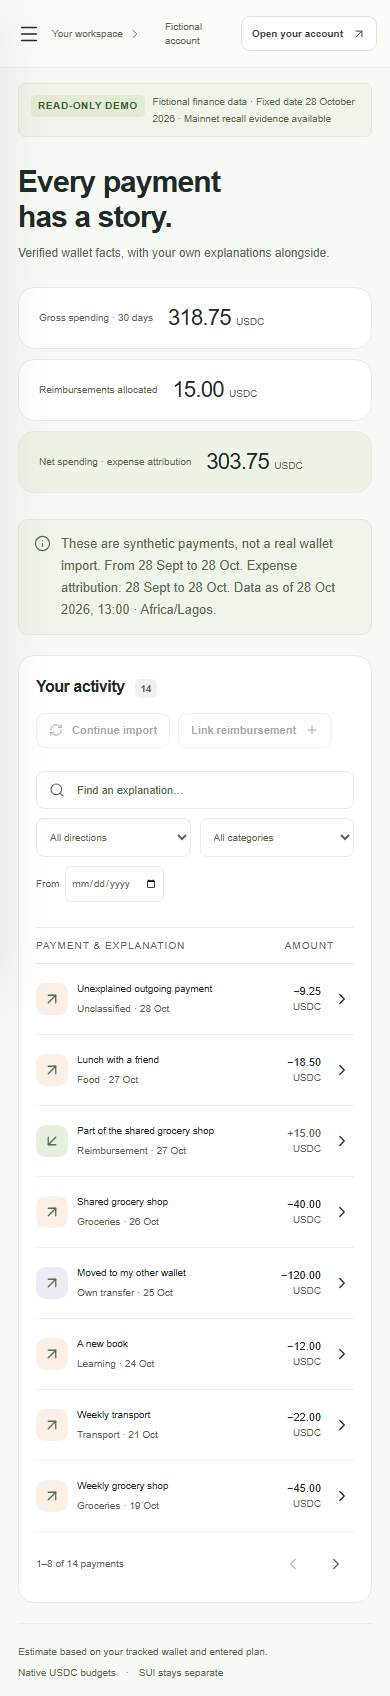
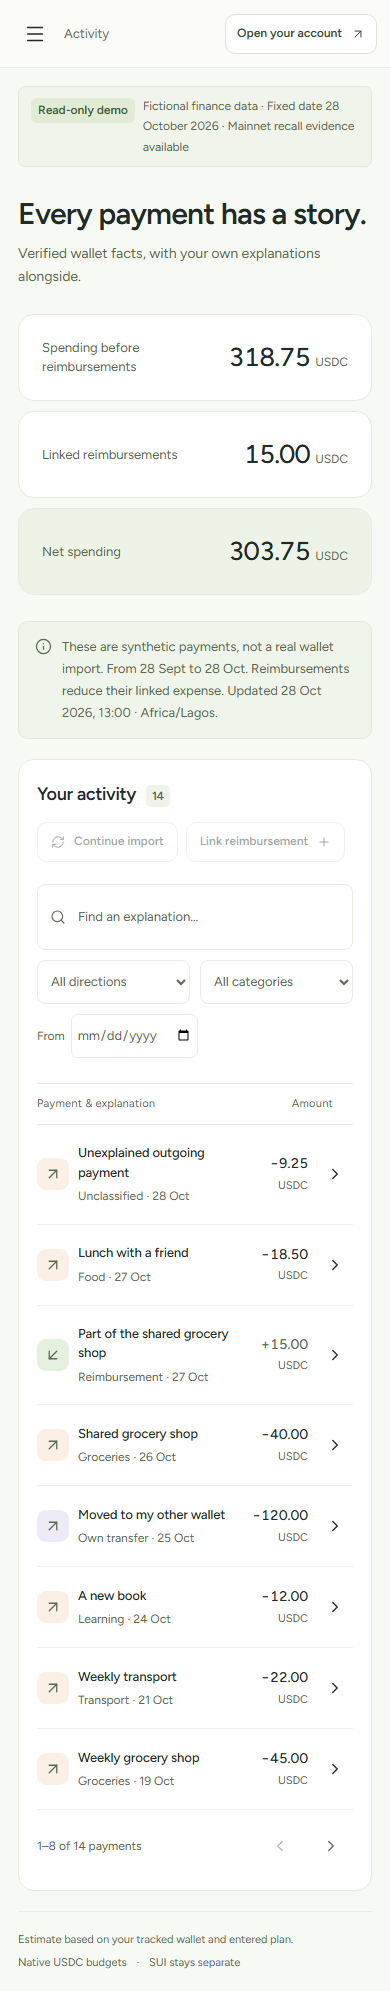
Record approved deployed presentation checks and current draft video [skip ci]

diff --git a/docs/OPEN_ITEMS.md b/docs/OPEN_ITEMS.md
@@ -5,13 +5,13 @@ Reviewed 29 October 2026. Software implementation and public review deployment a
 | ID | Owner | Impact | Exact next action | Evidence/status |
 | --- | --- | --- | --- | --- |
 | O01 | Implementation | Public native-USDC history | None required for recorded scope. | Closed: public reference incoming/outgoing, exact type/success/deltas, bounded resume/repeat verified through Tatum. |
-| O02 | Implementation | Walrus lifecycle/retention | Do not repeat or add seed writes. | Closed: all24 approved synthetic records stored/recalled; every expiry covers30November2026. |
+| O02 | Implementation | Walrus lifecycle/retention | Do not repeat or add seed writes. | Closed: all 24 approved synthetic records stored/recalled; every expiry covers30 November 2026. |
 | O03 | Implementation | Deployed runtime/storage | Recheck after future code/provider changes. | Closed: source bdace24, production probe 2026-10-29T19:47:18.767Z; balances, direct public transactions, two history pages/both directions, signed recall and PostgreSQL write/read passed. |
 | O04 | Tatum/provider + implementation | F08/F09, personal financial release | Obtain an official atomic balance checkpoint/index watermark or supported equivalent proving the balance includes a payment; implement and verify that contract. Concrete question: TATUM_CONTRACT_QUESTION.md. No transfers needed. | Critical/open. Current latest-checkpoint header is appended separately. Balance.checkpoint=null; reservations remain pending. |
 | O05 | Builder + implementation | Genuine wallet and G13 learning | After O04/O09 clear, complete PERSONAL_ACCEPTANCE.md with genuine installed-wallet sessions and actual recurring confirmation/correction. Review exact new payloads separately before any Mainnet write. REAL_PREFERENCE_GUIDE.md guides actual reserve preference separately. | Open. Supplied wallet already recorded; no need to send it again. Generated test signatures and synthetic replay do not satisfy genuine sessions. Unconfirmed10000 remains unassigned. |
-| O06 | Builder | Eligibility, identifiers, account quota | Confirm eligibility/one entry, enter real contact/public account IDs privately in the prepared form; verify Tatum's actual free quota/charges in its dashboard without upgrading or enabling billing. | Open: form20visible/15required fields inspected read-only. Sponsored MemWal confirmed, NeonFree/VercelHobby configured. No contacts or secrets requested in chat. |
-| O07 | Builder + implementation | Article/video/submission | Complete real learning, finalize BLOG.md and local video, publish article/video, verify signed-out URLs, review form agreements and submit once; retain receipt before10November2026 18:00Africa/Lagos. | Open: app/repo public, article/social drafts, local captioned2–3minute video only. No external publication or form submission made. |
-| O08 | Implementation | Automated acceptance | None required for this exact source absent new failures/changes. | Closed at recorded scope: all9 CI checks,38unit,18realDB,7publicbrowser,13authenticatedbrowser; fingerprint matches. Tests do not clear O04/O05/O09. |
+| O06 | Builder | Eligibility, identifiers, account quota | Confirm eligibility/one entry, enter real contact/public account IDs privately in the prepared form; verify Tatum's actual free quota/charges in its dashboard without upgrading or enabling billing. | Open: form20 visible/15 required fields inspected read-only. Sponsored MemWal confirmed, NeonFree/VercelHobby configured. No contacts or secrets requested in chat. |
+| O07 | Builder + implementation | Article/video/submission | Complete real learning, finalize BLOG.md and local video, publish article/video, verify signed-out URLs, review form agreements and submit once; retain receipt before10 November 2026, 18:00 Africa/Lagos. | Open: app/repo public, article/social drafts, local captioned2–3minute video only. No external publication or form submission made. |
+| O08 | Implementation | Automated acceptance | None required for this exact source absent new failures/changes. | Closed at recorded scope: all 9 CI checks,38 unit,18 real DB,7 public browser,13 authenticated browser; fingerprint matches. Tests do not clear O04/O05/O09. |
 | O09 | Slush review + builder | Installed-wallet security | Confirm exact hostname that showed warning; ChromePC Slush26.21.6(e2be7f2) already recorded. Use prepared SLUSH_REVIEW_REQUEST.md through official support. Do not bypass the warning, disable protections or use a different hostname to evade it. Recheck official resolution before enabling sign-in. | Critical/open: production sign-in and finance disabled, health/challenge rejection verified. No support request sent; blocklist absence is not safety proof. |
 | O10 | Implementation | Bounded history failure handling | No extra outage simulation required for delivered scope; investigate actual future provider errors using sanitized diagnostics. | Closed at tested scope: actual bounded resume/repeat plus local protobuf/transport throttle, interruption, retention/auth and cursor cases. No induced live outage claim or lifetime coverage extrapolation. |
 

diff --git a/docs/VERIFICATION_REPORT.md b/docs/VERIFICATION_REPORT.md
@@ -21,15 +21,15 @@ Deployment `dpl_9FpwHJVnS3SLFp5qXRdaYqkMygYq` is READY at the canonical public a
 | Pagination/recovery | history-recovery.json: 30 ITEM_LIMIT +19 CHECKPOINT_BOUND, 49 transactions/93 movements, both directions, stable repeated first page; production also streams both pages | Frozen bounds only. Throttle, interruption, pruning and stalled cursor scenarios are local transport/protobuf fixtures, not induced live outages. |
 | Walrus Mainnet | Approved smoke event plus exact approved 24-event synthetic batch, completed jobs, distinct active blobs and matching signed recalls | No extra personal writes or paid renewal authorized. All seed expiries cover 30 November 2026. |
 | Durable storage/auth | db-tests.json and personal-browser.json: migrations1–3, races/caps, immutability, cursor rollback, nonce/CSRF/session isolation/export, persisted new session, dependency failures and demo/account navigation | Real isolated PostgreSQL in CI; SDK test signatures are not genuine installed-wallet acceptance. |
-| UI and accessibility | ux-checks.json: 21 route/width checks at390/768/1440, no overflow/broken images/serious-critical axe findings; drawer is a separate 22nd visual capture | 12 extra CSS reflow checks at720/320, not physical zoom/device testing. Seven browser tests include keyboard drawer/Escape/route/resize and fonts. |
-| Production presentation | The new deployment is READY; its runtime probe passed. Current source local production captures passed and were independently reviewed. Earlier deployed visual-checks.json identifies its older source. | New deployed capture timed out on network-idle; permission review timed out twice before the corrected capture could start. Fresh deployed screenshot evidence is incomplete. No Slush safety verdict. |
+| UI and accessibility | ux-checks.json: 21 route/width checks at 390/768/1440, no overflow/broken images/serious-critical axe findings; drawer is a separate 22nd visual capture | 12 extra CSS reflow checks at 720/320, not physical zoom/device testing. Seven browser tests include keyboard drawer/Escape/route/resize and fonts. |
+| Production presentation | visual-checks.json: 18 signed-out deployed checks at 390/768/1440; HTTP, image loading, overflow and serious/critical axe checks passed, with sign-in disabled and challenge rejected. Root visually inspected two deployed samples. | The independent whole-scope review uses 22 local production images. Prior network-idle and permission-review timeouts were resolved after user approval. No Slush safety verdict. |
 | Submission material | BLOG.md, DEMO_SCRIPT.md, SOCIAL_POST.md, SUBMISSION_FORM_PREPARED.md; local captioned video and video-draft.json | Drafts are not published/submitted. No article/video URL or receipt exists. |
 
 Earlier CI failures and external database DNS/connection failures are retained under diagnostics. A Windows public-browser run passed all seven cases but its dev-server teardown stalled and was interrupted; successful full CI is the authoritative final process result. A sandbox TSX invocation failed before scanning due to uv_os_get_passwd; the permitted rerun completed. The first broad finish reviewer hit a usage limit; its once replacement performed the final review. The design detector ran once, exit0, with truncated advisory output against then-stale DESIGN; no clean-detector claim is made.
 
 ## Remaining mandatory acceptance
 
-Wallet sign-in and personal finance are **disabled in production**. The builder reported a malicious-site warning in Chrome's Slush PC extension26.21.6(e2be7f2); exact flagged hostname remains unconfirmed. Do not bypass it or use another hostname to evade it. docs/SLUSH_REVIEW_REQUEST.md is a prepared, unsent official review request. No genuine installed-wallet success is claimed.
+Wallet sign-in and personal finance are **disabled in production**. The builder reported a malicious-site warning in Chrome's Slush PC extension 26.21.6 (e2be7f2); exact flagged hostname remains unconfirmed. Do not bypass it or use another hostname to evade it. docs/SLUSH_REVIEW_REQUEST.md is a prepared, unsent official review request. No genuine installed-wallet success is claimed.
 
 F08/F09 remain blocked: GetBalance has no verified atomic checkpoint/index watermark proving the returned balance includes a matched payment. The separately appended latest-checkpoint header is insufficient. Balance.checkpoint remains null and allocations cannot release an unproven reservation. See BALANCE_CONSISTENCY.md and the unsent TATUM_CONTRACT_QUESTION.md.
 

diff --git a/docs/DELIVERY.md b/docs/DELIVERY.md
@@ -14,8 +14,8 @@ The exact tested implementation, CI, runtime, deployment and mandatory acceptanc
 2. Obtain Tatum's supported atomic balance/checkpoint contract using the [prepared provider question](TATUM_CONTRACT_QUESTION.md). The current response does not prove that a balance contains a matched payment. Reservations remain pending until implementation and verification of a supported contract. No test transfers are needed.
 3. After those gates clear, complete [genuine wallet acceptance](PERSONAL_ACCEPTANCE.md). The separate [reserve-preference guide](REAL_PREFERENCE_GUIDE.md) covers a real preference and later recall/correction. The brief's genuine recurring confirmation/correction still needs actual sessions. Review exact new Mainnet memory payloads before authorizing them; the completed synthetic batch approval covers no extra records. The unconfirmed input `10000` remains unassigned.
 4. Confirm eligibility, one-entry status and Tatum's actual free quota/charge settings. Enter contact details and public account identifiers privately using [prepared form answers](SUBMISSION_FORM_PREPARED.md). Never paste credentials into chat.
-5. Finalize and publish the [article](BLOG.md) and video after genuine evidence is available. The local captioned video at `submission/sui-money-demo-draft.webm` records the earlier `f8bfe48` UI and needs a refresh; it is not a public video URL or a genuine learning story. Verify final public URLs signed out, review agreements and submit once before **10 November 2026, 18:00 Africa/Lagos**, retaining the real receipt. The optional [social post](SOCIAL_POST.md) is also an unpublished draft.
+5. Finalize and publish the [article](BLOG.md) and video after genuine evidence is available. The local captioned video at `submission/sui-money-demo-draft.webm` now records the current deployed UI (173.64 seconds, playback checked); it remains a draft, not a public video URL or a genuine learning story. Verify final public URLs signed out, review agreements and submit once before **10 November 2026, 18:00 Africa/Lagos**, retaining the real receipt. The optional [social post](SOCIAL_POST.md) is also an unpublished draft.
 
 No funds were transferred, additional Mainnet memories written, paid plans enabled or external messages sent during this refinement. Personal access must not be enabled merely because the public UI review or automated tests passed.
 
-The corrected production screenshot capture and local video refresh did not start because automatic permission review timed out. The previous deployed capture attempt timed out waiting for network idle. Current local production captures are published under `evidence/screenshots/ux`; CI and the actual deployed runtime passed. These evidence levels remain separate in [presentation status](../evidence/public/production-presentation-status.json).
+After explicit user approval, all 18 deployed presentation checks and the local video refresh completed. Earlier permission-review and readiness-check failures are retained as history. Independent local production captures are under `evidence/screenshots/ux`; deployed captures are listed in `visual-checks.json`. These evidence levels remain separate in [presentation status](../evidence/public/production-presentation-status.json).

diff --git a/docs/EVIDENCE.md b/docs/EVIDENCE.md
@@ -86,4 +86,4 @@ No blanket release-pass flag is set. `audit:submission` remains blocked by the e
 Official event mascot and wordmarks now identify Walrus remembered context and Tatum wallet facts. `brand-checks.json` records six local production 390/1440 captures with no overflow or serious/critical axe findings, plus disabled sign-in and a rejected challenge. Impeccable review resolved its one SUI glyph-icon finding. This is scoped visual evidence, not a security clearance. Slush PC extension 26.21.6 (e2be7f2) still reports a malicious-site warning; genuine sign-in must wait for official review. See `SLUSH_REVIEW_REQUEST.md`.
 
 
-Final implementation `bdace2432d83f680af0c678c2f7dc5f40d59b5d0`: [all nine CI checks passed](https://github.com/Tolex081/sui-money-total-recall/actions/runs/40940787576), including 38 unit/adapter/property,18 real PostgreSQL,7 public browser and13 authenticated browser cases. quality.json matches current source. Production probe 2026-10-29T19:47:18.767Z records the same revision. ux-checks.json records21 local route/width checks plus12 CSS reflow checks. New-source deployed captures remain incomplete after a network-idle timeout and two permission-review timeouts; visual-checks.json explicitly identifies older evidence. See the independent review report and current DESIGN.md. Article/video publication, real wallet/learning, atomic balance consistency and builder attestations remain unproven.
+Final implementation `bdace2432d83f680af0c678c2f7dc5f40d59b5d0`: [all nine CI checks passed](https://github.com/Tolex081/sui-money-total-recall/actions/runs/40940787576), including 38 unit/adapter/property,18 real PostgreSQL,7 public browser and13 authenticated browser cases. quality.json matches current source. Production probe 2026-10-29T19:47:18.767Z records the same revision. ux-checks.json records21 local route/width checks plus12 CSS reflow checks. New-source visual-checks.json records 18 passing deployed checks at 390/768/1440, disabled sign-in and challenge rejection; root visually inspected two deployed samples. Earlier capture/review timeouts were resolved after explicit user approval. See the independent review report and current DESIGN.md. Article/video publication, real wallet/learning, atomic balance consistency and builder attestations remain unproven.

diff --git a/docs/BUILD_LOG.md b/docs/BUILD_LOG.md
@@ -23,3 +23,5 @@ The quality runner fingerprints stable source. Source changes during a run produ
 Final source f8bfe486cd3045fdab0ff4426c610f0227bfe82e: CI https://github.com/Tolex081/sui-money-total-recall/actions/runs/40820055052 passed all nine checks (32 unit, 18 DB, 4 public browser, 12 authenticated browser). The first final CI attempt caught a test reaching the real sync cooldown; the corrected test waits for it without changing production limits. Earlier local database DNS/connection failures remain failed diagnostics. Deployed Node v24.21.0 probe passed Tatum, signed Walrus recall and durable PostgreSQL at 2026-10-29T09:18:30.646Z. Public article/video/submission and real learning gates remain open.
 
 2026-10-29T20:09:07.494Z — Completed the user-requested broader UI refinement using Impeccable and official Anthropic frontend-design guidance. Added self-hosted OFL typography, native mobile/tablet drawer and clear source/state/time proof. Independent review and design documentation are recorded separately. Exact source bdace2432d83f680af0c678c2f7dc5f40d59b5d0: https://github.com/Tolex081/sui-money-total-recall/actions/runs/40940787576, all nine checks passed (38 unit,18 DB,7 public browser,13 authenticated browser). Actual production probe at 2026-10-29T19:47:18.767Z passed Tatum balances/direct transactions/two streamed pages, signed Walrus recall and PostgreSQL. Both sign-in and personal access remain disabled. No additional Walrus writes, payments, paid plans, support messages, publication or submission were made.
+
+2026-10-29T20:49:30.523Z — After explicit approval, all 18 signed-out deployed presentation checks passed on bdace2432d83f680af0c678c2f7dc5f40d59b5d0. Two deployed samples were visually inspected. Refreshed local captioned video playback verified 173.64 seconds; draft remains unpublished. Earlier network-idle timeout, hidden-lazy-image readiness failure and permission-review timeouts were corrected/retried without changing source or weakening acceptance. No Mainnet writes, funds transfers, paid upgrade, external message or submission.

diff --git a/evidence/screenshots/README.md b/evidence/screenshots/README.md
@@ -2,4 +2,4 @@
 
 `ux/` contains all 22 images opened by the independent final UI reviewer: seven surfaces at 390, 768 and 1440px, plus the 390px native drawer viewport. These are local production-build captures for implementation `bdace2432d83f680af0c678c2f7dc5f40d59b5d0`, with the source fingerprint in `evidence/public/ux-checks.json`. Local dependencies can show honestly pending proof states; they are not represented as live Mainnet screenshot evidence.
 
-Other files are retained historical/partial capture material. Their names alone do not prove freshness. Earlier deployment evidence explicitly identifies its recorded revision in `visual-checks.json`; a later new-source capture attempt did not complete. Use `production-presentation-status.json` and `deployed-runtime.json` to distinguish current runtime verification from screenshots. Do not infer genuine wallet sessions, Mainnet writes or security clearance from any image.
+The 18 root-level files listed by `visual-checks.json` are current deployed captures at 390/768/1440. Remaining files are historical/supplemental; names alone do not prove freshness. Use that manifest, `production-presentation-status.json` and `deployed-runtime.json` to distinguish presentation and runtime evidence. Do not infer genuine wallet sessions, Mainnet writes or security clearance from any image.

diff --git a/docs/SLUSH_REVIEW_REQUEST.md b/docs/SLUSH_REVIEW_REQUEST.md
@@ -14,7 +14,7 @@ Status: unresolved; no support request has been sent. Do not bypass the warning,
 
 `evidence/public/wallet-domain-check.json` records a read-only inspection of MystenLabs/wallet_blocklist at commit `fe160fa2e5e0d103bdcbed92c7d72f5dc8685bf1`. No exact app hostname or literal vercel.app wildcard was found in the inspected lists. This does **not** establish safety or a false positive: other checks, matching behavior and the exact reported origin remain unverified.
 
-Source: https://github.com/MystenLabs/wallet_blocklist . Official security information: https://slush.app/security . Official support: https://support.slush.app/hc/en-us/requests/new . The UI/API sign-in pause is deployed and verified on the prior recorded revision f8bfe48; the pause is retained in deployed source bdace24: health reports disabled sign-in and a new challenge is rejected. See `evidence/public/visual-checks.json`.
+Source: https://github.com/MystenLabs/wallet_blocklist . Official security information: https://slush.app/security . Official support: https://support.slush.app/hc/en-us/requests/new . The UI/API sign-in pause is deployed and verified on deployed source bdace24: health reports disabled sign-in and a new challenge is rejected. See `evidence/public/visual-checks.json`.
 
 ## Draft for official support
 

diff --git a/submission/README.md b/submission/README.md
@@ -4,4 +4,4 @@
 
 Review and finalize it after the remaining acceptance gates clear. It has not been uploaded, published or submitted. Article, script, form answers and the exact builder actions are linked from `docs/DELIVERY.md`.
 
-The existing recording shows the earlier `f8bfe48` UI. Its refresh to the current interface did not start because automatic permission review timed out. Keep that limitation with the draft.
+The recording now shows deployed implementation `bdace2432d83f680af0c678c2f7dc5f40d59b5d0`. Native browser playback verified 173.64 seconds at 1440×1000. It is a silent captioned draft; its synthetic replay cannot replace genuine learning acceptance or final publication.
